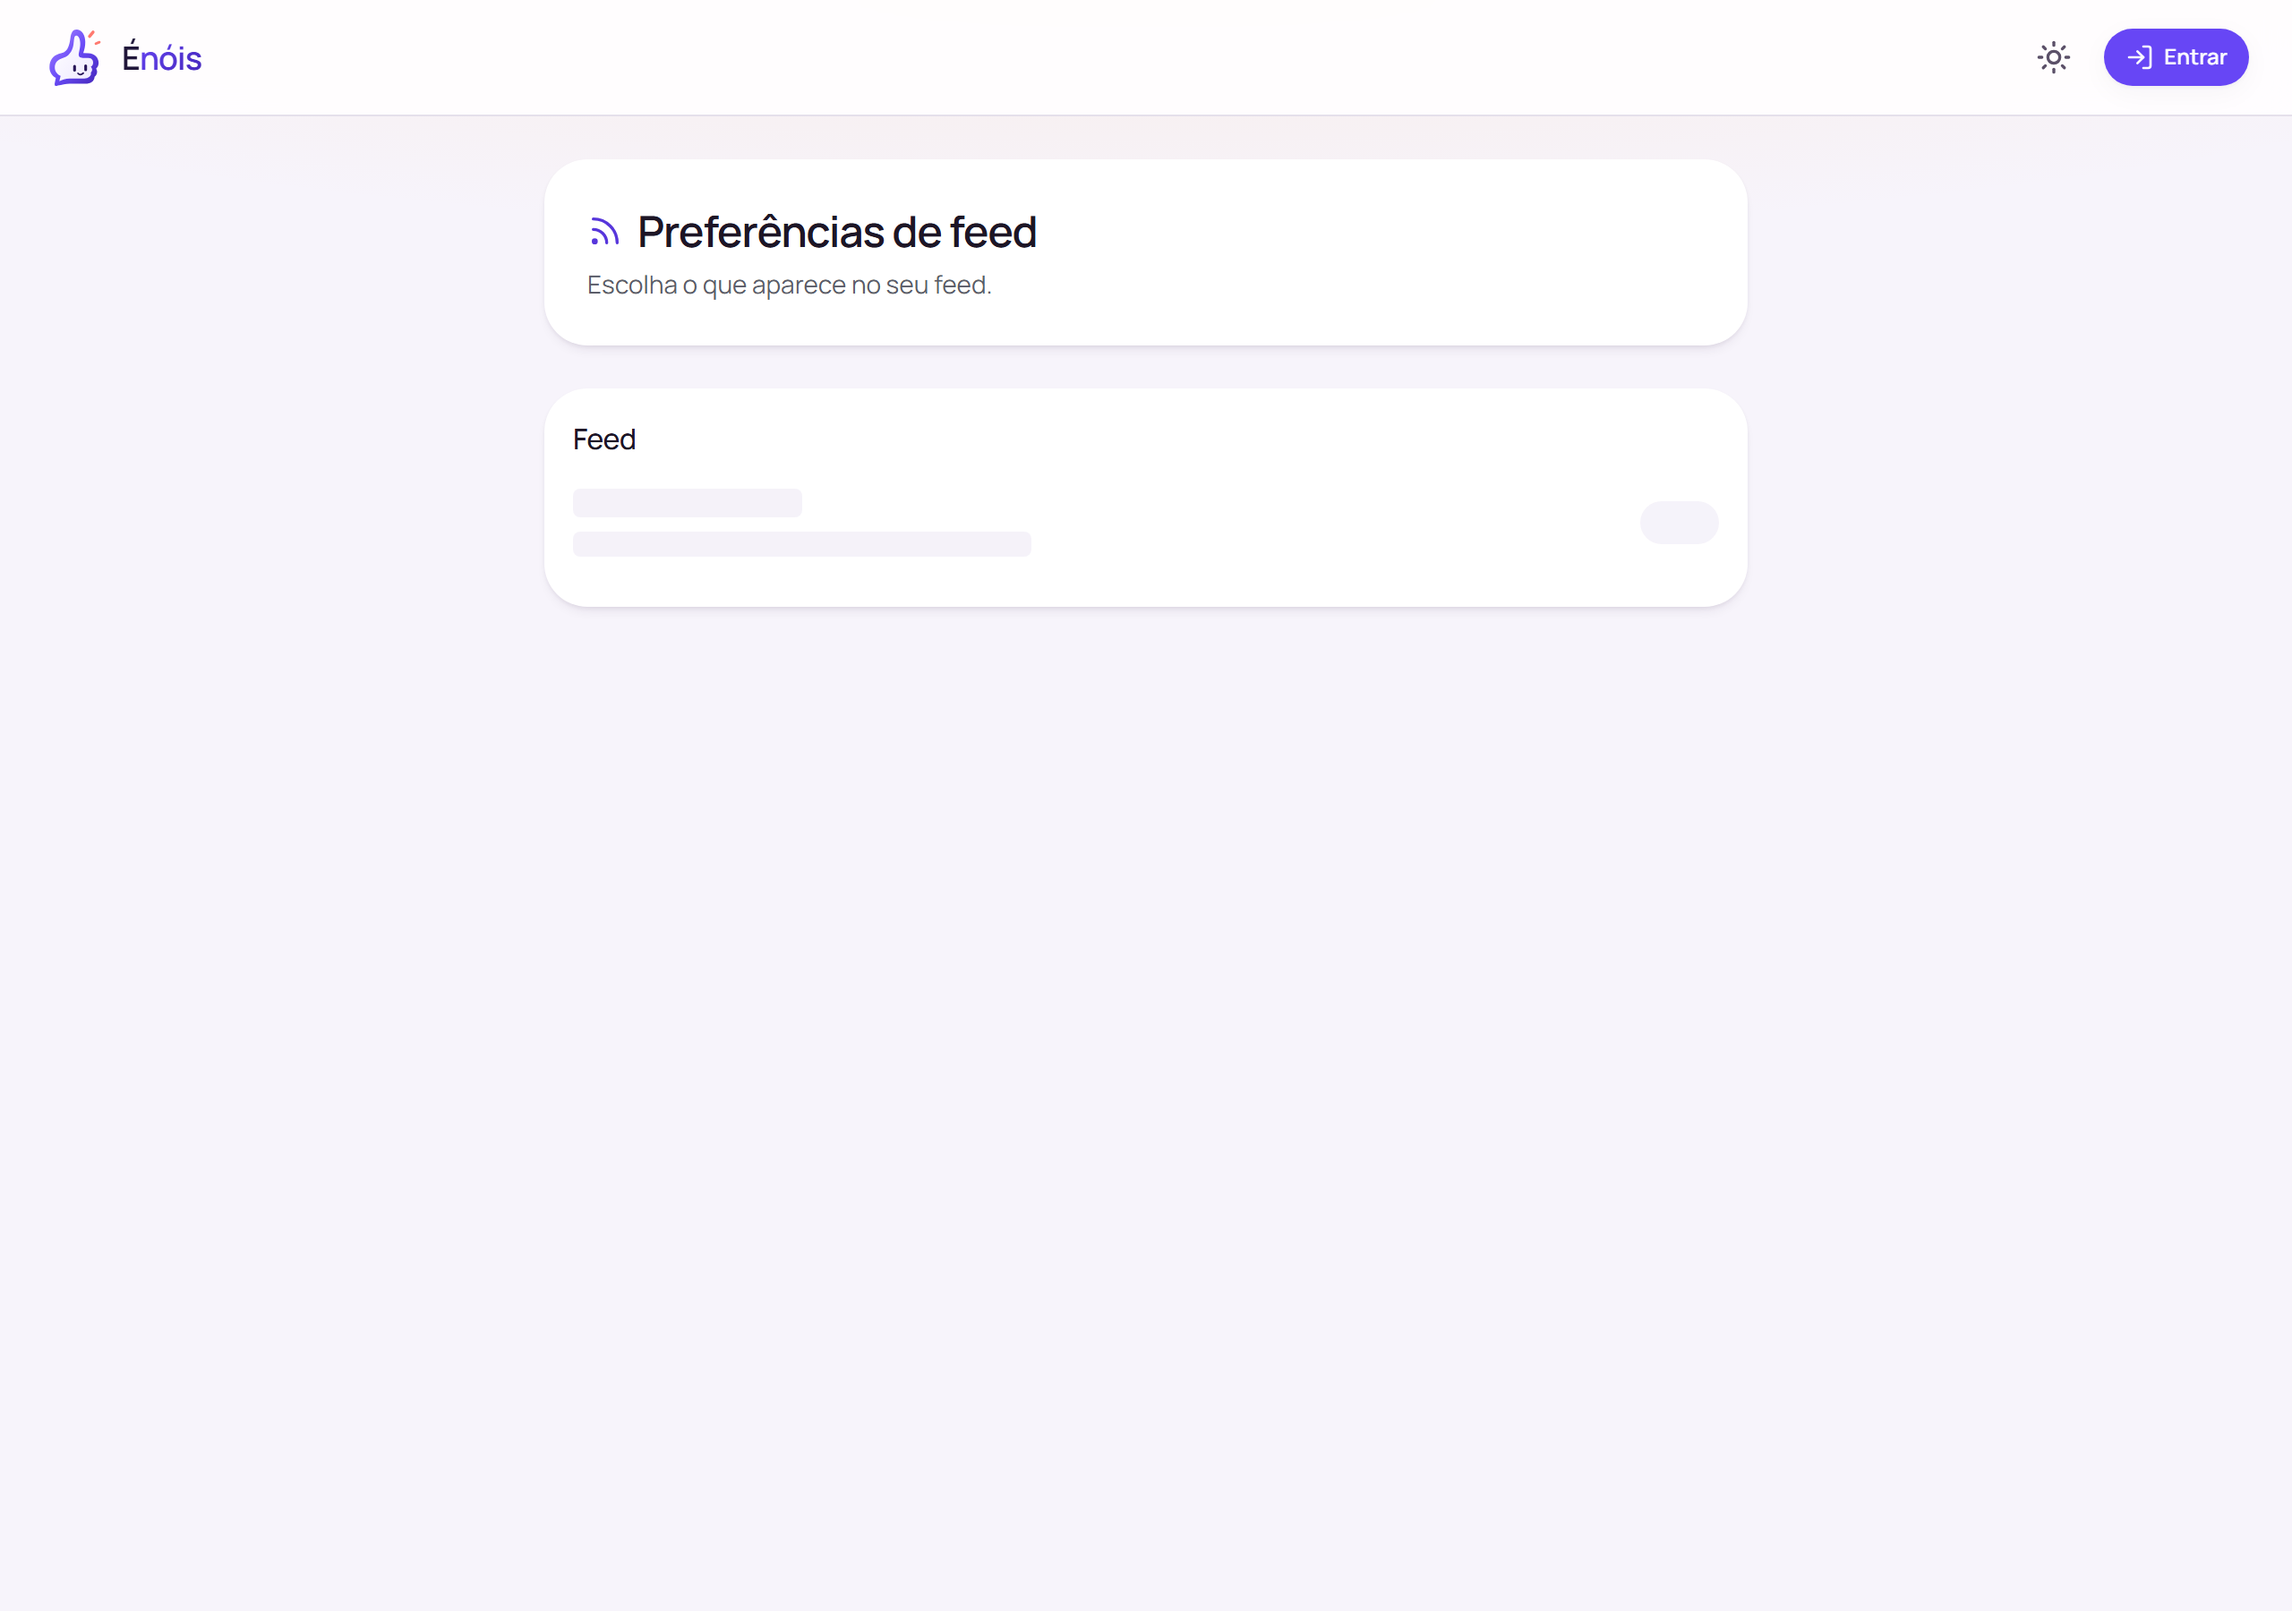
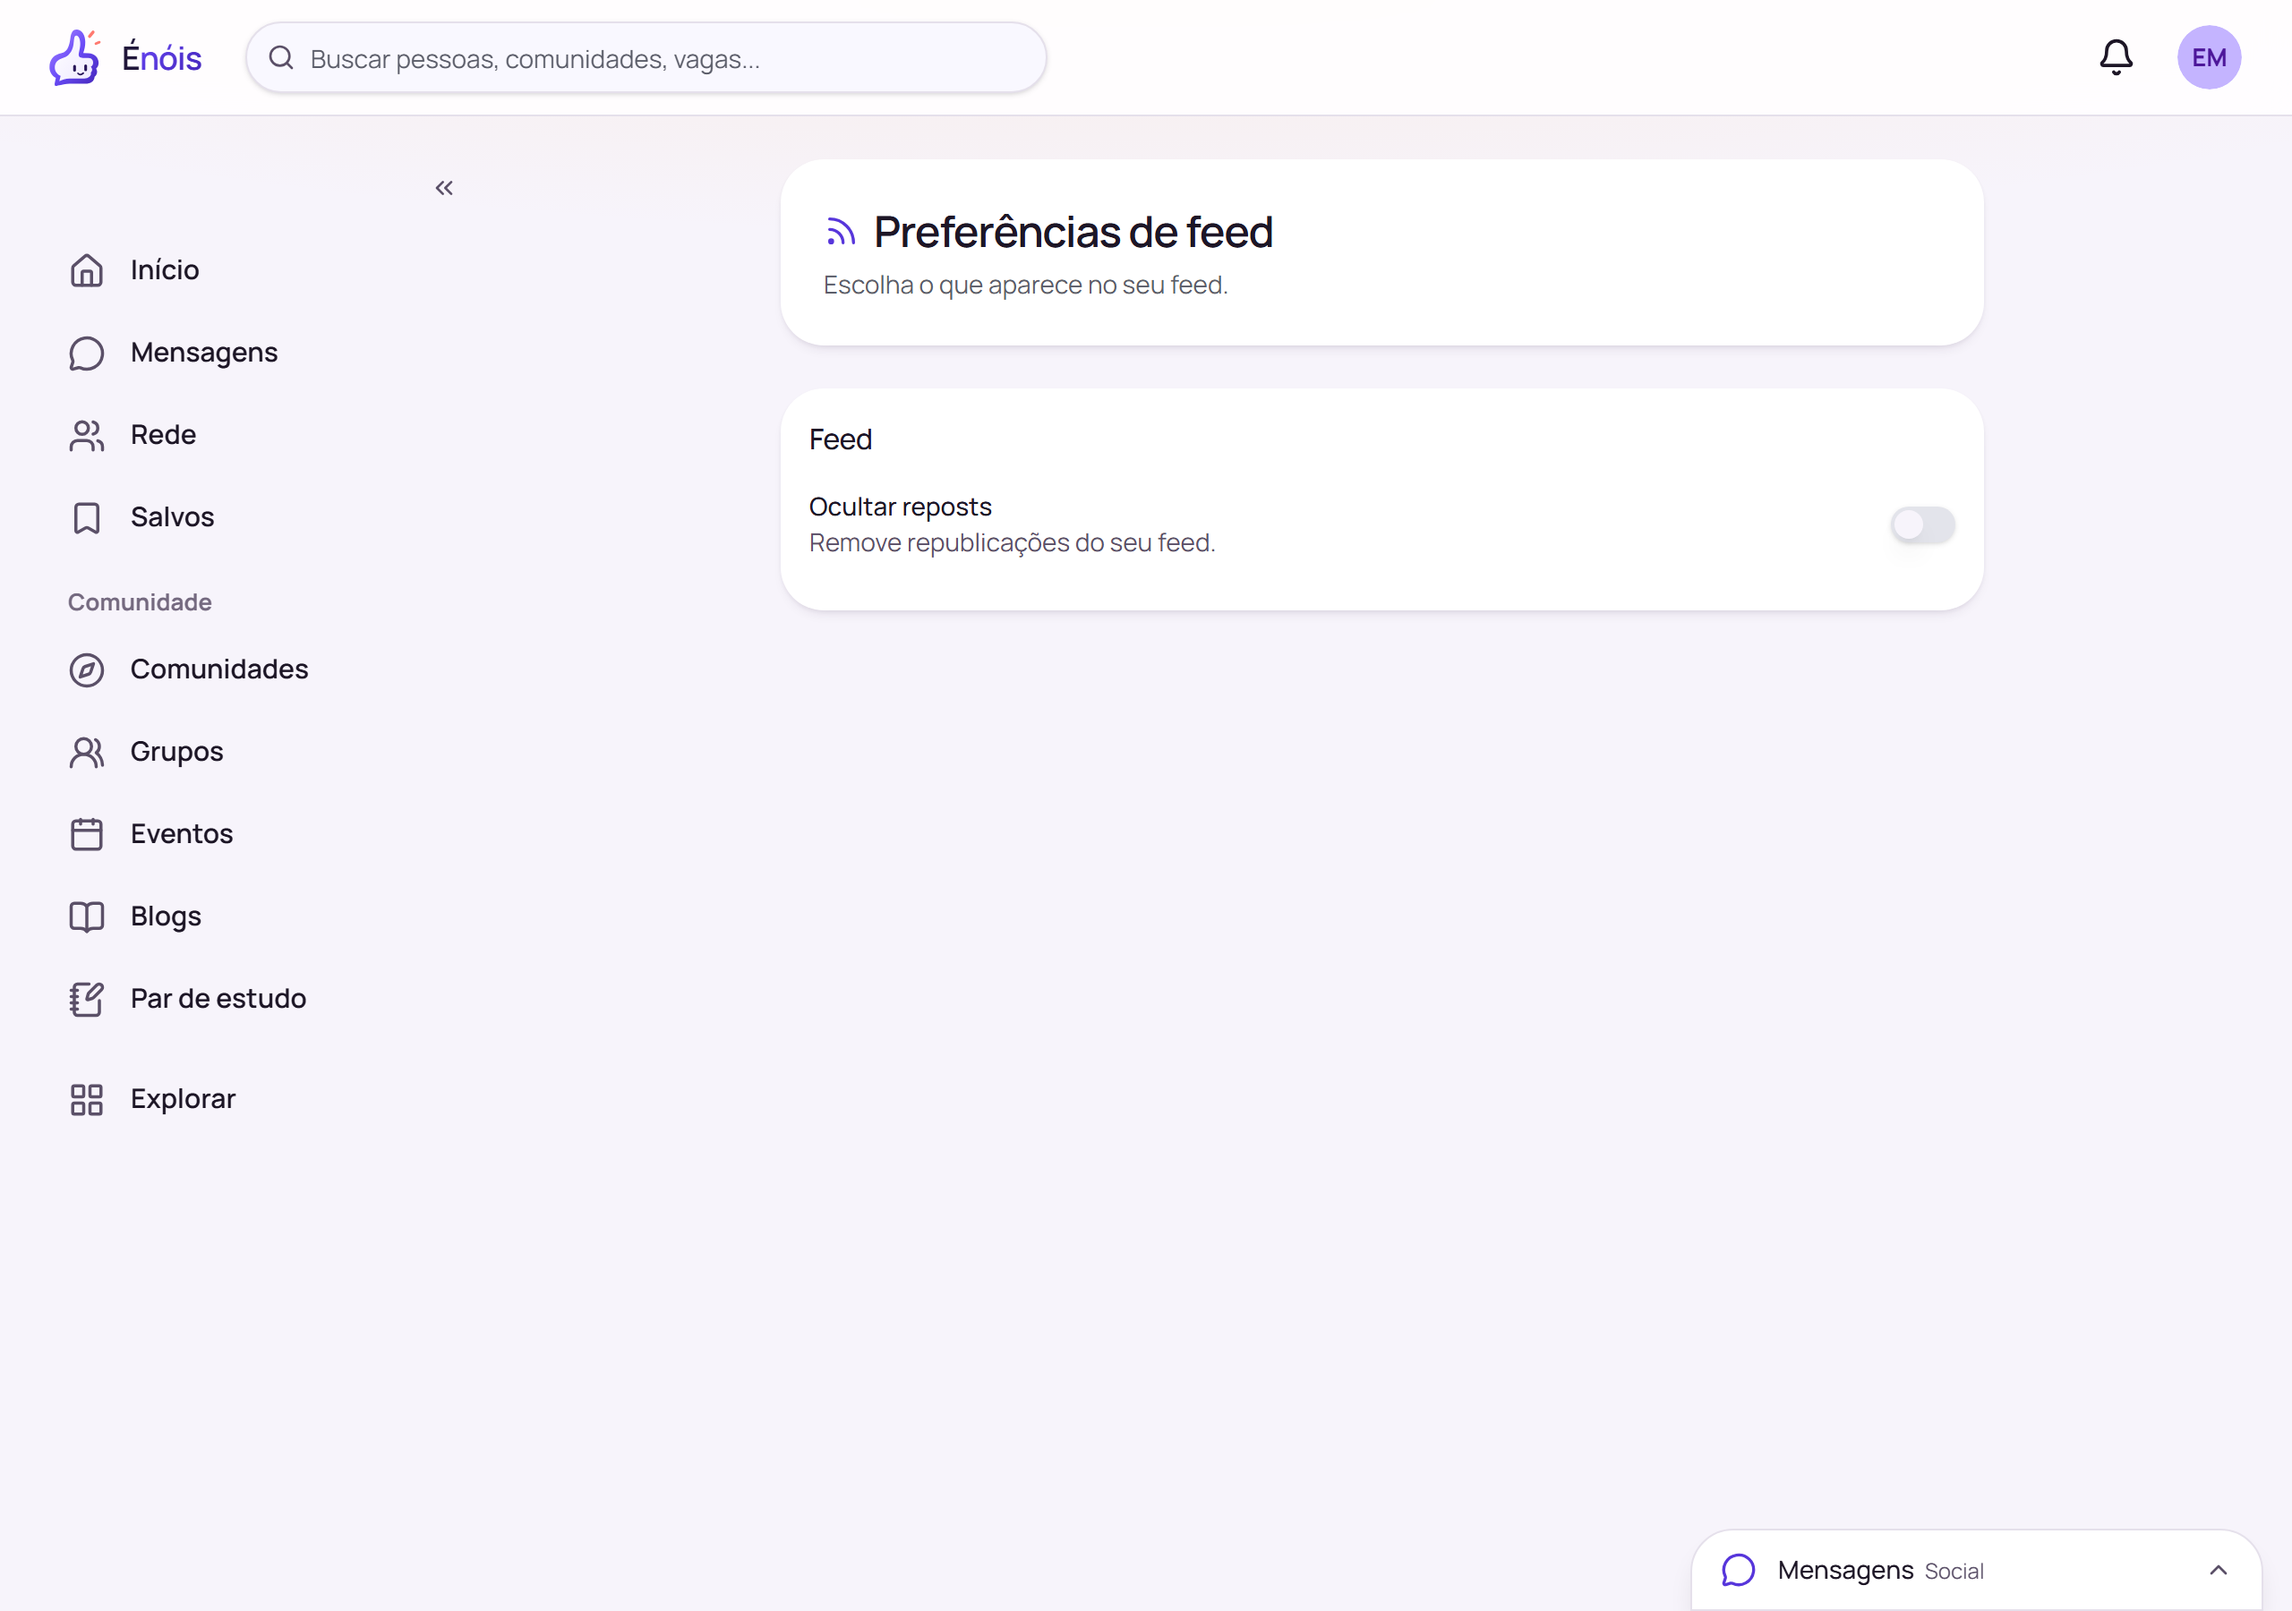
fix(conta): cast documentado de hrefs para DS e atualiza provas visuais #706

diff --git a/src/routes/conta.tsx b/src/routes/conta.tsx
@@ -32,17 +32,20 @@ function AccountSettingsPage() {
   return (
     <AppContainer>
       <AccountSettings
-        hrefs={{
-          security: "/seguranca",
-          blockedUsers: "/bloqueados",
-          myReports: "/denuncias",
-          sanctions: "/penalidades",
-          guardian: "/responsavel",
-          mutedUsers: "/silenciados",
-          notificationPreferences: "/notificacoes/preferencias",
-          feedPreferences: "/conta/preferencias-feed",
-          supportUs: "/apoiar",
-        }}
+        hrefs={
+          {
+            security: "/seguranca",
+            blockedUsers: "/bloqueados",
+            myReports: "/denuncias",
+            sanctions: "/penalidades",
+            guardian: "/responsavel",
+            mutedUsers: "/silenciados",
+            notificationPreferences: "/notificacoes/preferencias",
+            // Prop adicionada no PR #149 do Design System. Cast documentado para compatibilidade com o pacote publicado enquanto aguarda release.
+            feedPreferences: "/conta/preferencias-feed",
+            supportUs: "/apoiar",
+          } as React.ComponentProps<typeof AccountSettings>["hrefs"]
+        }
         onChangeEmail={() => setDialog("email")}
         onChangePassword={() => setDialog("password")}
         onOpenLinkedAccounts={() => setDialog("linked")}

diff --git a/docs/proof/706/README.md b/docs/proof/706/README.md
@@ -1,0 +1,14 @@
+# Prova Visual — Preferências de Feed (#706)
+
+Evidências de renderização e estado do interruptor na rota `/conta/preferencias-feed` nos viewports desktop (1280px) e mobile (390px).
+
+## Capturas
+
+- `feed-prefs-desligado-1280.png` / `feed-prefs-desligado-390.png`: Estado inicial carregado (`switchChecked: false`, `hasHint: true`).
+- `feed-prefs-ligado-1280.png` / `feed-prefs-ligado-390.png`: Estado pós-clique (`switchChecked: true`, `hasHint: true`).
+
+## Métricas registradas (`result.json`)
+
+- **Overflow horizontal:** 0px em ambos os viewports.
+- **Erros de console:** 0 erros capturados durante a sessão.
+- **Interatividade:** O switch reflete com sucesso o toggle entre `false` e `true`.
